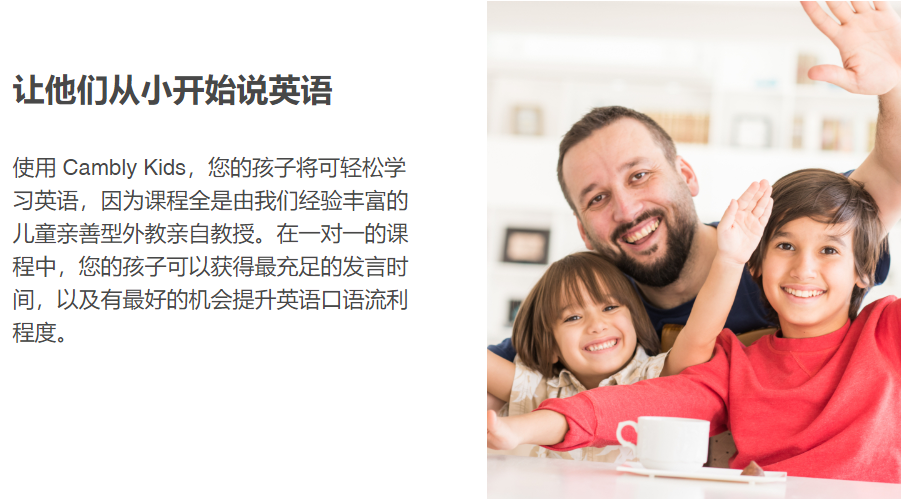
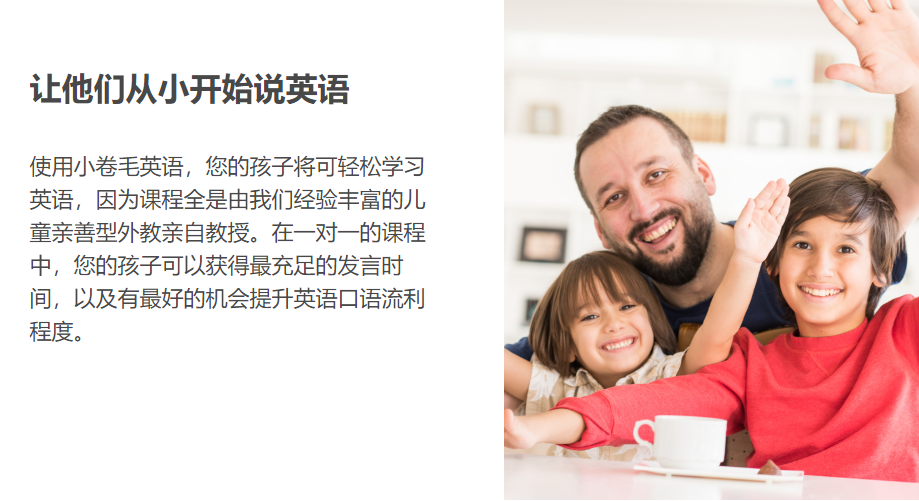
2020-6-3

diff --git a/src/component/home/index.jsx b/src/component/home/index.jsx
@@ -1,32 +1,104 @@
 import React, { PureComponent } from 'react';
 import { connect } from 'react-redux';
 import { Carousel } from 'antd';
+import { SmileFilled } from '@ant-design/icons';
+import { Row, Col } from 'antd';
+import { actionCreators } from './store';
 import './index.less';
 
 class Home extends PureComponent{
+  constructor(props) {
+    super(props);
+    this.state = {
+      scrollWidth: 0,
+      current: 'homePage',
+    }
+  }
+
+  componentDidMount() {
+    let that = this;
+    window.addEventListener('load', function() {
+      that.props.handleChangeScrollWidth(window.innerWidth);
+      
+      window.addEventListener('resize', function() {
+        that.props.handleChangeScrollWidth(window.innerWidth)
+      })
+    })
+  }
 
   render(){
+    const {
+      carouselPic1,
+      carouselPic2,
+      carouselPic3,
+    } = this.props
+    const {
+      scrollWidth
+    } = this.state
     return (
       <div className="homeBox">
         <div className="kong"> 123  </div>
         <Carousel autoplay autoplaySpeed={5000}>
           <div>
-            <div className="first">
-            </div>
+            <img className="carouselPic" src={carouselPic1} alt=""/>
           </div>
           <div>
-            <h3>2</h3>
+            <img className="carouselPic" src={carouselPic2} alt=""/>
           </div>
           <div>
-            <h3>3</h3>
-          </div>
-          <div>
-            <h3>4</h3>
+            <img className="carouselPic" src={carouselPic3} alt=""/>
           </div>
         </Carousel>
+        <div className="whyLearn">
+          <div className="whyLearnHead">
+            <SmileFilled style={{position: 'relative', top: '0.04rem', fontSize : '0.36rem', margin: '0.22rem 0.2rem 0 0', color: '#75c25a'}}/>
+            <h2>为什么要让孩子来小卷毛学习英语</h2>
+            <SmileFilled style={{position: 'relative', top: '0.04rem',  fontSize : '0.36rem', margin: '0.22rem 0 0 0.2rem', color: '#75c25a'}}/>
+          </div>
+          <div className="whyLearnIntroduce">“小卷毛”课程体系，是以正宗的美国课堂为蓝本，结合中国孩子的教育现状及特点，量身定制的最适合中国孩子学习的课程——国际公民课程。采用家庭化场景教学，课堂是日常的生活环境，比如客厅、公园、餐厅。外教不仅是授课老师，还是孩子的生活伙伴。</div>
+        </div>
+        <div className="whyLearnContent">
+          <Row>
+            <Col span={3}></Col>
+            <Col span={8}>
+              <div className="whylearnPicBox">
+                <div className="whylearnPic1" />
+                <div className="whylearnPicText">
+                  <p className="text1">
+                    特色一：家庭环境全英语交流
+                  </p>
+                  <p className="text2">
+                    外教不仅是授课老师，更是孩子的生活伙伴;
+                  </p>
+                </div>
+              </div>
+            </Col>
+            <Col span={2}></Col>
+            <Col span={8}>
+              <div className="whylearnPicBox">
+                <div className="whylearnPic2" />
+              </div>
+            </Col>
+            <Col span={3}></Col>
+          </Row>
+        </div>
       </div>
     )
   }
 }
 
-export default connect()(Home);
+const mapStateToProps = (state) => ({
+  carouselPic1: state.getIn(['home', 'carouselPic1']),
+  carouselPic2: state.getIn(['home', 'carouselPic2']),
+  carouselPic3: state.getIn(['home', 'carouselPic3']),
+});
+
+const mapDispatchToProps = (dispatch) => {
+  return {
+    handleChangeScrollWidth(value) {
+      dispatch(actionCreators.changeScrollWidth(value));
+    },
+  }
+}
+
+export default connect(mapStateToProps, mapDispatchToProps)(Home);

diff --git a/src/component/home/index.less b/src/component/home/index.less
@@ -3,21 +3,83 @@
   background: #f0f0f0;
   overflow: hidden;
   .kong{
+    width: 100%;
     height: 0.57rem;
     background: #f0f0f0;
   }
   .ant-carousel{
     width: 100%;
+    height: 9rem;
+    .slick-slide {
+      width: 100%;
+      text-align: center;
+      height: 9rem;
+      overflow: hidden;
+      img{
+        display: block;
+        width: 100%;
+        height: 9.1rem;
+      }
+    }
   }
-  .ant-carousel .slick-slide {
+  .whyLearn{
     width: 100%;
-    text-align: center;
-    height: 5.5rem;
-    line-height: 5.5rem;
-    background: #788396;
-    overflow: hidden;
+    margin-top: 1.2rem;
+    .whyLearnHead{
+      width: 100%;
+      height: 0.72rem;
+      line-height: 0.72rem;
+      text-align: center;
+      h2{
+        display: inline-block;
+        font-size: 0.28rem;
+        font-weight: bold;
+        text-align: center;
+        height: 0.72rem;
+        line-height: 0.72rem;
+      }
+      .anticon anticon-deployment-unit{
+        font-size: 0.36rem;
+        margin: auto;
+        height: 0.72rem;
+      }
+    }
+    .whyLearnIntroduce{
+      width: 71%;
+      margin: 0.1rem auto 0;
+      font-size: 0.22rem;
+      color: @primary-color;
+    }
   }
-  .ant-carousel .slick-slide h3 {
-    color: #fff;
+  .whyLearnContent{
+    margin-top: 0.3rem;
+    height: 10rem;
+    .whylearnPicBox{
+      .whylearnPic1{
+        width: 4.8rem;
+        height: 3rem;
+        background: url(../../style/home/wy1.png) no-repeat;
+        background-size: contain;
+        background-size:100% 100%;
+      }
+      .whylearnPic2{
+        width: 4.8rem;
+        height: 3rem;
+        background: url(../../style/home/wy2.png) no-repeat;
+        background-size: contain;
+        background-size:100% 100%;
+      }
+      .whylearnPicText{
+        .text1{
+          color: @primary-color;
+          font-size: 0.2rem;
+          height: 0.2rem;
+        }
+        .text2{
+          color: @text-color;
+          font-size: 0.16rem;
+        }
+      }
+    }
   }
 }

diff --git a/src/component/home/store/reducer.js b/src/component/home/store/reducer.js
@@ -1,0 +1,28 @@
+import { fromJS } from 'immutable';
+import * as constants from './constants';
+import zh_CN from '../../../locale/zh_CN';
+// import en_US from '../../../locale/en_US';
+
+const defaultState = fromJS({
+  carouselPic1: require('../../../style/home/learnEnglish.png'),
+  carouselPic2: require('../../../style/home/teacher.png'),
+  carouselPic3: require('../../../style/home/english-dad.png'),
+  scrollWidth: 1920,
+});
+
+export default (state = defaultState, action) => {
+  switch(action.type) {
+    case constants.CPONE:
+      return state.set(
+        'carouselPic1', require('../../../style/home/learnEnglish.png'),
+        'carouselPic2', require('../../../style/home/teacher.png'),
+        'carouselPic3', require('../../../style/home/english-dad.png'),
+      );
+    case constants.SCROLLWIDTH:
+      return state.set(
+        'scrollWidth', action.value,
+    );
+    default:
+      return state;
+  }
+}

diff --git a/public/index.html b/public/index.html
@@ -26,6 +26,23 @@
     -->
     <title>React App</title>
   </head>
+  <script>
+    (function(){
+        function w() {
+        var r = document.documentElement;
+        var a = r.getBoundingClientRect().width;//获取当前设备的宽度
+            if (a > 720 ){//720不固定，根据设计稿的宽度定
+                a = 720;
+            } 
+            rem = a / 7.2;
+            r.style.fontSize = rem + "px"
+        }
+        w();
+        window.addEventListener("resize", function() {//监听横竖屏切换
+            w()
+        }, false);
+    })();
+  </script>
   <body>
     <noscript>You need to enable JavaScript to run this app.</noscript>
     <div id="root"></div>

diff --git a/src/store/reducer.js b/src/store/reducer.js
@@ -1,10 +1,12 @@
 import { combineReducers } from 'redux-immutable';
 import { reducer as headerReducer } from '../common/header/store';
+import { reducer as homeReducer } from '../component/home/store';
 // import { reducer as detailReducer } from '../pages/detail/store';
 // import { reducer as loginReducer } from '../pages/login/store';
 
 export default combineReducers({
   header: headerReducer,
+  home: homeReducer,
   // detail: detailReducer,
   // login: loginReducer
 })

diff --git a/src/component/home/store/index.js b/src/component/home/store/index.js
@@ -1,0 +1,5 @@
+import reducer from './reducer';
+import * as actionCreators from './actionCreators';
+import * as constants from './constants';
+
+export { reducer, actionCreators, constants };

diff --git a/src/common/header/index.jsx b/src/common/header/index.jsx
@@ -61,6 +61,7 @@ class Header extends PureComponent{
               </Menu.Item>
             </Menu>
           </Col>
+          <Col span={7}></Col>
         </Row>
       </div>
     )

diff --git a/src/component/home/store/actionCreators.js b/src/component/home/store/actionCreators.js
@@ -1,0 +1,6 @@
+import * as constants from './constants';
+
+export const changeScrollWidth = (value) => ({
+  type: constants.SCROLLWIDTH,
+  value
+});

diff --git a/src/component/home/store/constants.js b/src/component/home/store/constants.js
@@ -1,0 +1,3 @@
+export const LOGO = 'home/LOGO';
+export const CPONE = 'home/CPONE';
+export const SCROLLWIDTH = 'header/SCROLLWIDTH';

diff --git a/src/common/header/store/actionCreators.js b/src/common/header/store/actionCreators.js
@@ -3,3 +3,4 @@ import * as constants from './constants';
 export const toggleLogo = () => ({
   type: constants.LOGO
 });
+

diff --git a/src/common/header/store/constants.js b/src/common/header/store/constants.js
@@ -1,1 +1,2 @@
 export const LOGO = 'header/LOGO';
+
